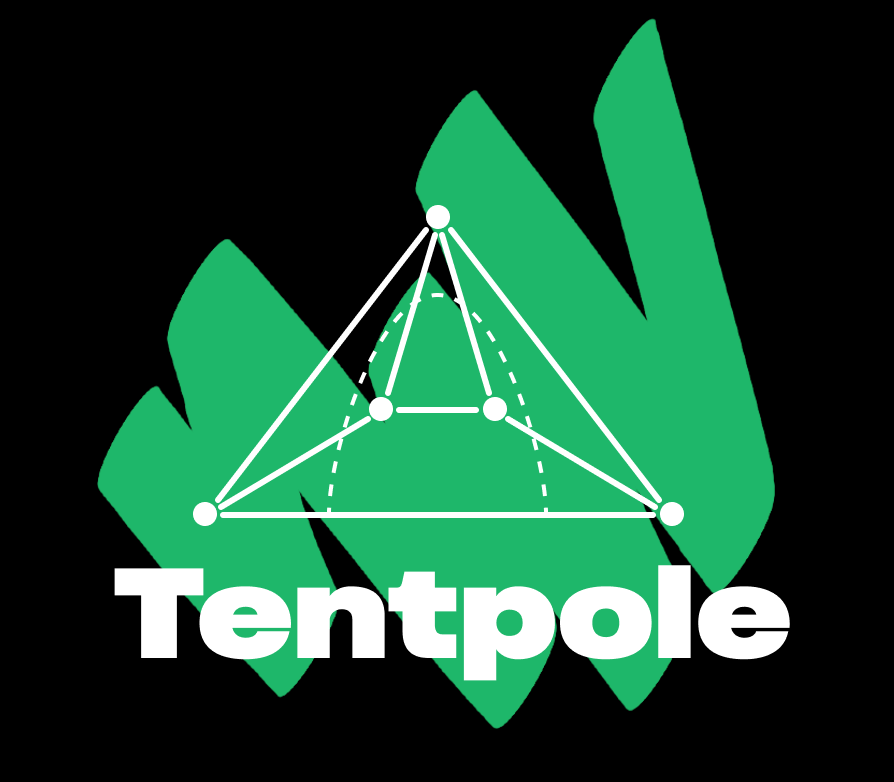
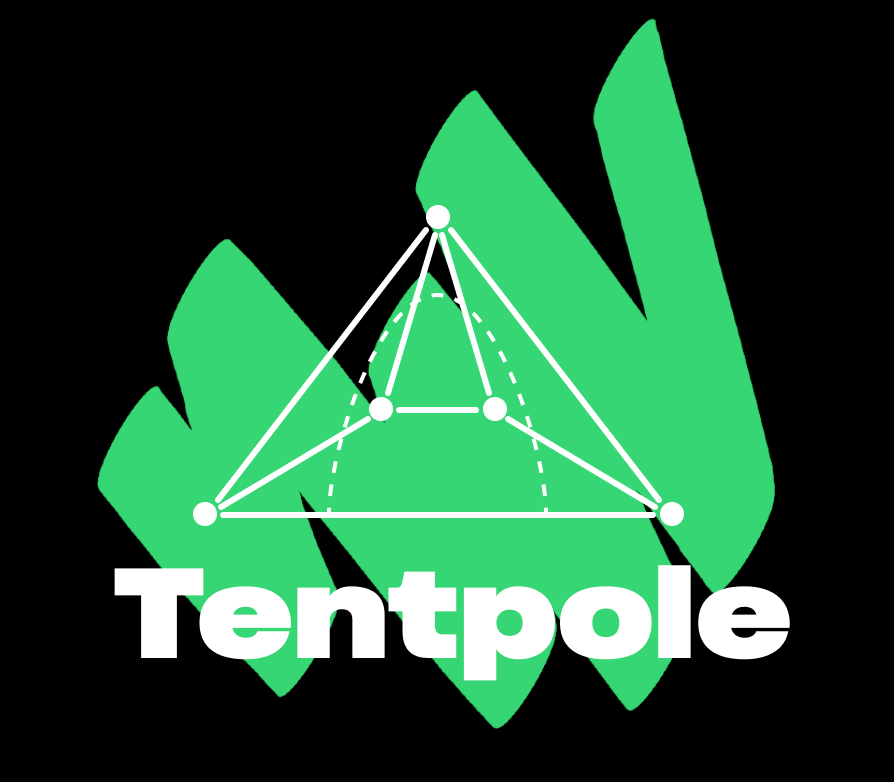
dark mode images

diff --git a/index.html b/index.html
@@ -28,38 +28,68 @@
     <main>
       <img
         id="plain-logo"
+        class="light"
         src="/assets/flourish-0.png"
         width="400"
         height="350"
         alt="A tent drawn with diagrammatic lines and dots. It say 'Tentpole' underneath in a bold, black font."
       />
       <img
-        class="flourish-logo"
+        class="flourish-logo light"
         src="/assets/flourish-1.png"
         width="400"
         height="350"
         alt="A tent drawn with diagrammatic lines and dots. It say 'Tentpole' underneath in a bold, black font. A green paint brush stroke is scribbled on top of it all."
       />
       <img
-        class="flourish-logo"
+        class="flourish-logo light"
         src="/assets/flourish-2.png"
         width="400"
         height="350"
-        alt="A tent drawn with diagrammatic lines and dots. It say 'Tentpole' underneath in a bold, black font. A pale orangey brown brush stroke is painted over the text."
+        alt="A tent drawn with diagrammatic lines and dots. It say 'Tentpole' underneath in a bold, black font. A reddy brown brush stroke is painted over the text."
       />
       <img
-        class="flourish-logo"
+        class="flourish-logo light"
         src="/assets/flourish-3.png"
         width="400"
         height="350"
         alt="A tent drawn with diagrammatic lines and dots. It say 'Tentpole' underneath in a bold, black font. A pink paint brush stroke is marked over the roof of the tent."
       />
       <img
-        class="flourish-logo"
+        class="flourish-logo light"
         src="/assets/flourish-4.png"
         width="400"
         height="350"
         alt="A tent drawn with diagrammatic lines and dots. It say 'Tentpole' underneath in a bold, black font. A blue paint brush stroke is scribbled on top of it all."
+      />
+      <img
+        id="plain-logo"
+        class="dark"
+        src="/assets/flourish-dark-0.png"
+        width="400"
+        height="350"
+        alt="A tent drawn with diagrammatic lines and dots. It say 'Tentpole' underneath in a bold, white font."
+      />
+      <img
+        class="flourish-logo dark"
+        src="/assets/flourish-dark-1.png"
+        width="400"
+        height="350"
+        alt="A tent drawn with diagrammatic lines and dots. It say 'Tentpole' underneath in a bold, white font. A green paint brush stroke is scribbled on top of it all."
+      />
+      <img
+        class="flourish-logo dark"
+        src="/assets/flourish-dark-2.png"
+        width="400"
+        height="350"
+        alt="A tent drawn with diagrammatic lines and dots. It say 'Tentpole' underneath in a bold, white font. A reddy brown brush stroke is painted over the text."
+      />
+      <img
+        class="flourish-logo dark"
+        src="/assets/flourish-dark-3.png"
+        width="400"
+        height="350"
+        alt="A tent drawn with diagrammatic lines and dots. It say 'Tentpole' underneath in a bold, white font. A pink paint brush stroke is marked over the roof of the tent."
       />
       <section>
         <p>
@@ -118,8 +148,16 @@
       return shuffledArray;
     }
 
-    const flourishLogos = document.querySelectorAll(".flourish-logo");
-    const plainLogo = document.getElementById("plain-logo");
+    const isDarkMode = window.matchMedia(
+      "(prefers-color-scheme: dark)"
+    ).matches;
+
+    const flourishLogos = document.querySelectorAll(
+      ".flourish-logo" + (isDarkMode ? ".dark" : ".light")
+    );
+    const plainLogo = document.querySelector(
+      "#plain-logo." + (isDarkMode ? "dark" : "light")
+    );
 
     const selectedFlourishIndex = Math.floor(
       Math.random() * flourishLogos.length
@@ -130,7 +168,7 @@
     plainLogo.style.display = "none";
     selectedFlourishLogo.style.display = "inline";
 
-    const colourMap = ["green", "orange", "pink", "blue"];
+    const colourMap = ["green", "red", "pink", "blue"];
     const primaryColour = colourMap[selectedFlourishIndex];
 
     document.body.style.setProperty("--primary", `var(--${primaryColour})`);

diff --git a/style.css b/style.css
@@ -2,6 +2,7 @@
   --blue: #4cc6ff;
   --pink: #ff5adb;
   --orange: #ffca76;
+  --red: #ed6662;
   --base-green: #5eff9c;
   --green: #55ee90;
 
@@ -9,6 +10,14 @@
 
   --foreground: black;
   --background: white;
+
+  --green-dark: #35d673;
+  --pink-dark: #f24da2;
+  --red-dark: var(--red);
+}
+
+.dark {
+  display: none;
 }
 
 /* dark mode */
@@ -16,6 +25,16 @@
   :root {
     --foreground: white;
     --background: black;
+    --green: var(--green-dark);
+    --pink: var(--pink-dark);
+  }
+
+  .light {
+    display: none;
+  }
+
+  .dark {
+    display: inline-block;
   }
 }
 
